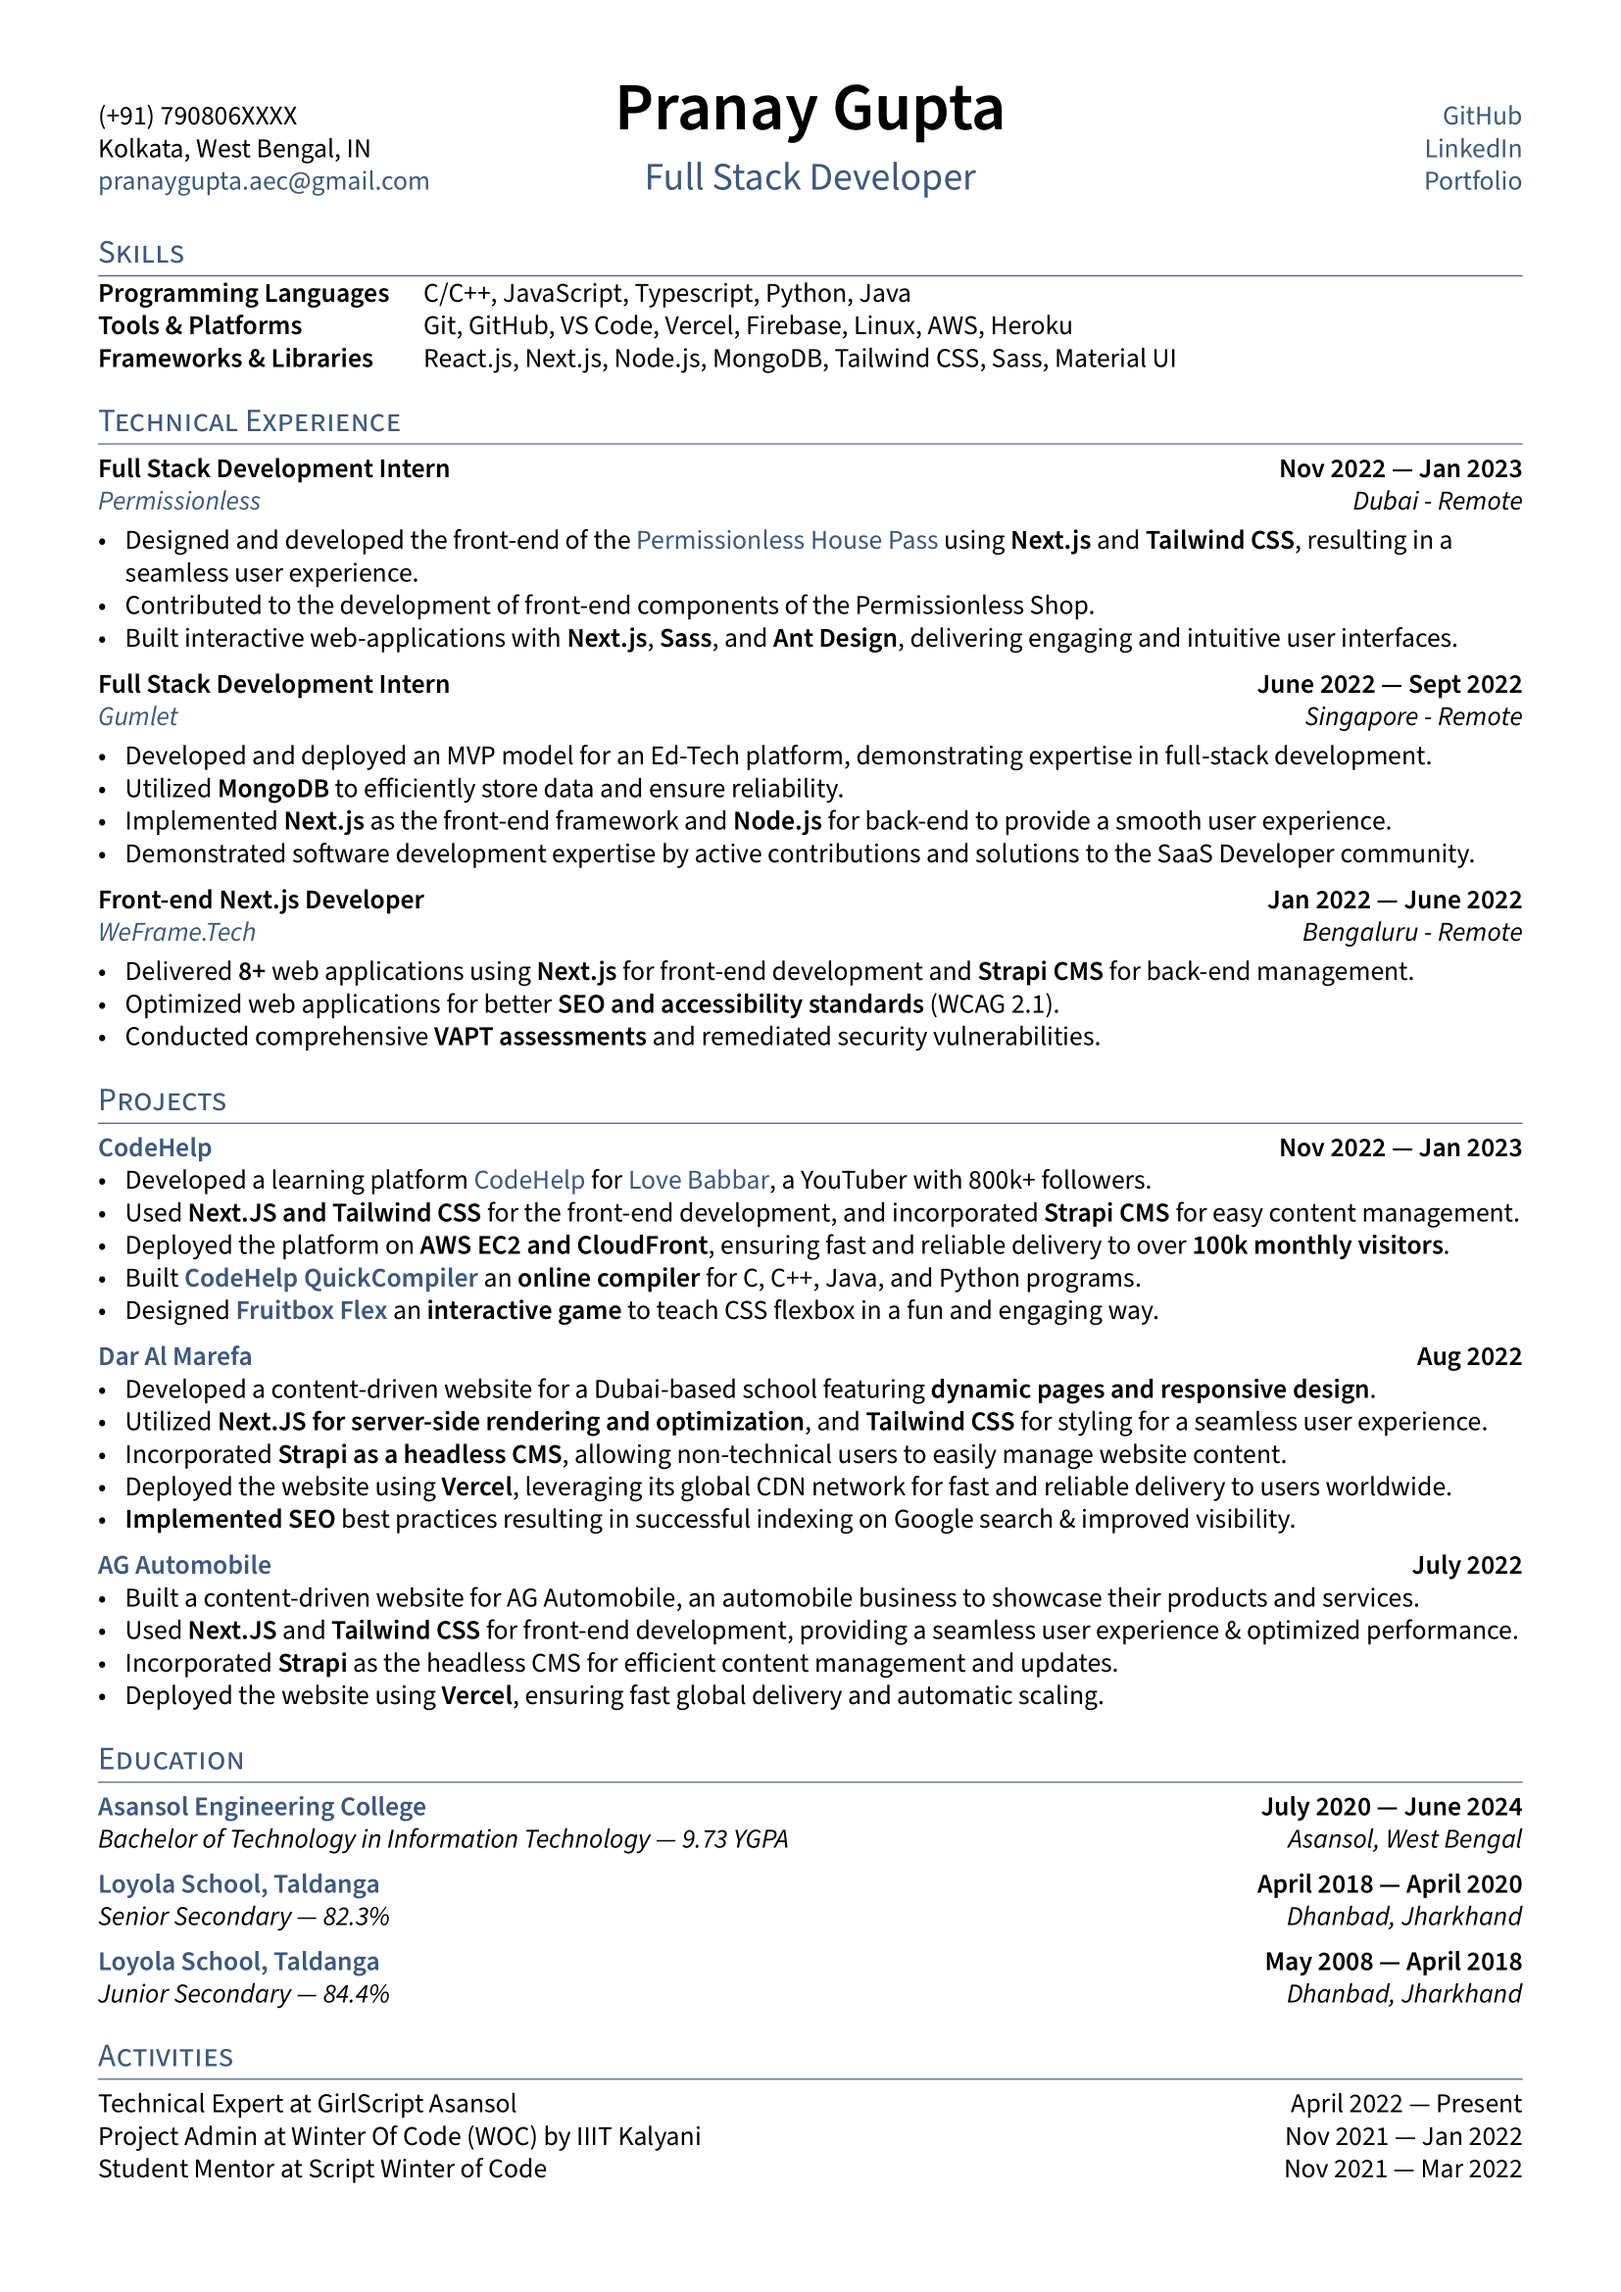
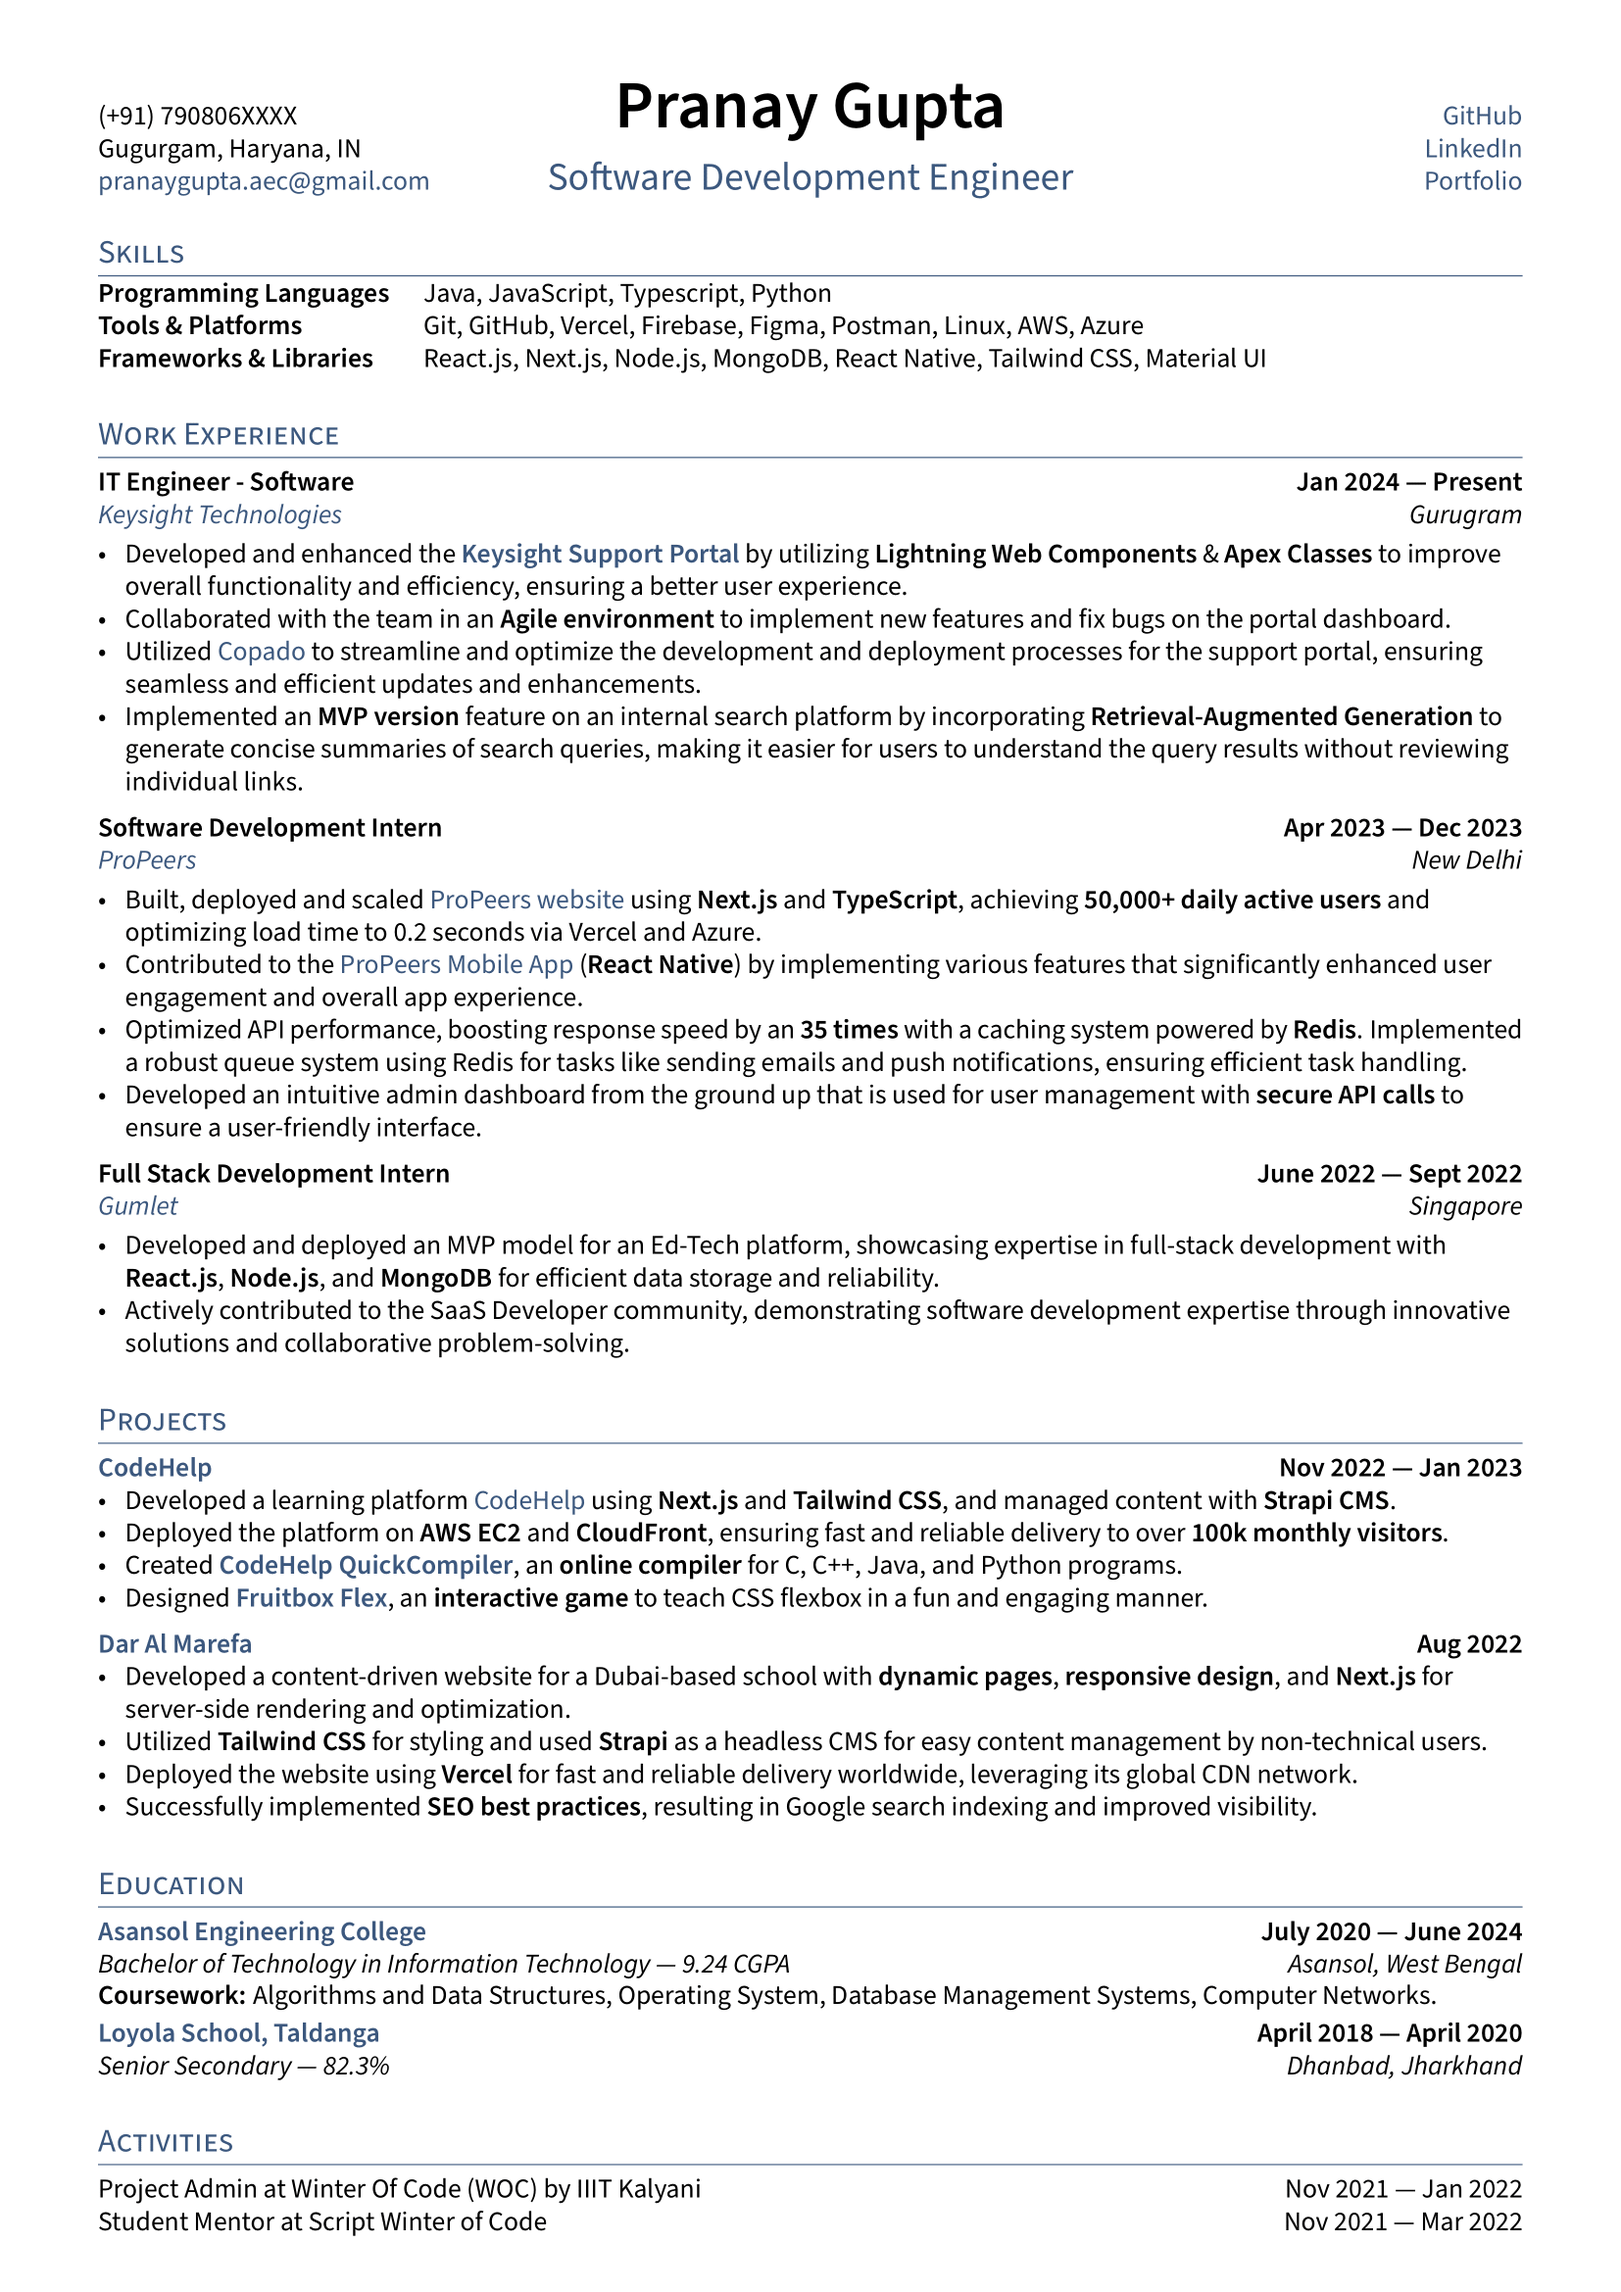
update resume content

diff --git a/sections/experience.tex b/sections/experience.tex
@@ -1,23 +1,25 @@
 % ====================
 % EXPERIENCE A
 % ====================
-\subsection{{Software Development Intern\hfill Apr 2023 --- Present}}
-\subtext{\href{https://propeers.in}{ProPeers} \hfill New Delhi}
+\subsection{{IT Engineer - Software\hfill Jan 2024 --- Present}}
+\subtext{\href{https://www.keysight.com}{Keysight Technologies} \hfill Gurugram}
 \begin{zitemize}
-\item Developed admin-specific features and constructed an admin dashboard from scratch using \textbf{React} and \textbf{Tailwind CSS}, implementing an advanced architecture with \textbf{MVC pattern} for efficient data flow and state management.
-\item Implemented a robust \textbf{Restful Web Services API} using \textbf{Node.js}, \textbf{Express}, and \textbf{MongoDB} to facilitate seamless interaction between the mobile app and web app, incorporating modular design and run-time optimization techniques.
-\item Designed and implemented an \textbf{end-to-end} solution for efficient storage and retrieval of college data, leveraging multiple alias-matching algorithms to handle \textbf{hundreds of thousands of records}.
+\item Developed and enhanced the \textbf{\href{https://support.keysight.com/s}{Keysight Support Portal}} by utilizing \textbf{Lightning Web Components} \& \textbf{Apex Classes} to improve overall functionality and efficiency, ensuring a better user experience.
+\item Collaborated with the team in an \textbf{Agile environment} to implement new features and fix bugs on the portal dashboard.
+\item Utilized \href{https://www.copado.com}{Copado} to streamline and optimize the development and deployment processes for the support portal, ensuring seamless and efficient updates and enhancements.
+\item Implemented an \textbf{MVP version} feature on an internal search platform by incorporating \textbf{Retrieval-Augmented Generation} to generate concise summaries of search queries, making it easier for users to understand the query results without reviewing individual links.
 \end{zitemize}
 
 % ====================
 % EXPERIENCE B
 % ====================
-\subsection{{Full Stack Development Intern\hfill Nov 2022 --- Jan 2023}}
-\subtext{\href{https://permissionless.net}{Permissionless} \hfill Dubai}
+\subsection{{Software Development Intern\hfill Apr 2023 --- Dec 2023}}
+\subtext{\href{https://www.propeers.in}{ProPeers} \hfill New Delhi}
 \begin{zitemize}
-\item Worked on the design and development of the cutting-edge front-end for \textbf{\href{https://dsync.ai}{Dsync.ai}}, utilizing \textbf{Next.js} and \textbf{Tailwind CSS}, elevating the user experience to unparalleled levels of seamlessness.
-\item Collaborated on the enhancement of front-end components for the dynamic Permissionless Shop, employing \textbf{agile methodologies} and leveraging advanced technologies to streamline the shopping experience.
-\item Crafted captivating and intuitive user interfaces through the creation of interactive web applications using \textbf{Next.js}, \textbf{Sass}, and \textbf{Ant Design}, ensuring optimal engagement and user satisfaction.
+\item Built, deployed and scaled \href{https://www.propeers.in}{ProPeers website} using \textbf{Next.js} and \textbf{TypeScript}, achieving \textbf{50,000+ daily active users} and optimizing load time to 0.2 seconds via Vercel and Azure.
+\item Contributed to the {\href{https://play.google.com/store/apps/details?id=com.wireless.propeers}{ProPeers Mobile App}} (\textbf{React Native}) by implementing various features that significantly enhanced user engagement and overall app experience.
+\item Optimized API performance, boosting response speed by an \textbf{35 times} with a caching system powered by \textbf{Redis}. Implemented a robust queue system using Redis for tasks like sending emails and push notifications, ensuring efficient task handling.
+\item Developed an intuitive admin dashboard from the ground up that is used for user management with \textbf{secure API calls} to ensure a user-friendly interface.
 \end{zitemize}
 
 %====================
@@ -26,7 +28,7 @@
 \subsection{{Full Stack Development Intern\hfill June 2022 --- Sept 2022}}
 \subtext{\href{https://www.gumlet.com}{Gumlet} \hfill Singapore}
 \begin{zitemize}
-\item Developed and deployed an MVP model for an Ed-Tech platform, showcasing expertise in full-stack development with \textbf{Next.js}, \textbf{Node.js}, and \textbf{MongoDB} for efficient data storage and reliability.
+\item Developed and deployed an MVP model for an Ed-Tech platform, showcasing expertise in full-stack development with \textbf{React.js}, \textbf{Node.js}, and \textbf{MongoDB} for efficient data storage and reliability.
 \item Actively contributed to the SaaS Developer community, demonstrating software development expertise through innovative solutions and collaborative problem-solving.
 \end{zitemize}
 

diff --git a/sections/education.tex b/sections/education.tex
@@ -7,7 +7,7 @@
 
 
 \subsection{{\href{https://www.aecwb.edu.in}{Asansol Engineering College} \hfill July 2020 --- June 2024}}
-\subtext{Bachelor of Technology in Information Technology --- 9.73 YGPA \hfill Asansol, West Bengal}
+\subtext{Bachelor of Technology in Information Technology --- 9.24 CGPA \hfill Asansol, West Bengal}
 
 \vspace{0.25em}
 \subtext{}\textbf{Coursework:} Algorithms and Data Structures, Operating System, Database Management Systems, Computer Networks.
@@ -21,8 +21,8 @@
 
 \end{null}
 
-\subsection{{\href{https://www.loyolataldanga.com/}{Loyola School, Taldanga} \hfill May 2008 --- April 2018}}
-\subtext{Junior Secondary --- 84.4\% \hfill Dhanbad, Jharkhand}
-\begin{null}
+% \subsection{{\href{https://www.loyolataldanga.com/}{Loyola School, Taldanga} \hfill May 2008 --- April 2018}}
+% \subtext{Junior Secondary --- 84.4\% \hfill Dhanbad, Jharkhand}
+% \begin{null}
 
-\end{null}
+% \end{null}

diff --git a/sections/activities.tex b/sections/activities.tex
@@ -1,5 +1,3 @@
-\href{https://media-exp1.licdn.com/dms/image/C4D2DAQFe_g8MmZZCKA/profile-treasury-image-shrink_1280_1280/0/1650306774998?e=2147483647&v=beta&t=hX0gnDjzG83VSMkTiWUa4FVBo8SGNfmNlMMq7jtOg40}{\textcolor{black}{Technical Expert}} at GirlScript Asansol \hfill April 2022 --- Present
-
 Project Admin at Winter Of Code (WOC) by IIIT Kalyani \hfill Nov 2021 --- Jan 2022
 
 \href{https://media-exp2.licdn.com/dms/image/C4D2DAQEA_6LRDAI8eg/profile-treasury-document-images_800/1/1648468599618?e=1657756800&v=beta&t=hL2_ffWTPAjbkLPQvlRSlOXnvwtfpUXJf3YrcgO-8Ao}{\textcolor{black}{Student Mentor}} at Script Winter of Code \hfill   Nov 2021 --- Mar 2022

diff --git a/sections/skills.tex b/sections/skills.tex
@@ -1,5 +1,5 @@
 \begin{tabular}{p{11em} p{1em} p{43em}}
-\skills{Programming Languages} &&   C/C++, JavaScript, Typescript, Python, Java \\
-\skills{Tools \& Platforms} &&  Git, GitHub, Vercel, Firebase, Linux, AWS, Heroku \\
-\skills{Frameworks \& Libraries} && React.js, Next.js, Node.js, MongoDB, Tailwind CSS, Sass, Material UI
+\skills{Programming Languages} &&  Java, JavaScript, Typescript, Python \\
+\skills{Tools \& Platforms} &&  Git, GitHub, Vercel, Firebase, Figma, Postman, Linux, AWS, Azure \\
+\skills{Frameworks \& Libraries} && React.js, Next.js, Node.js, MongoDB, React Native, Tailwind CSS, Material UI
 \end{tabular}

diff --git a/resume.tex b/resume.tex
@@ -21,7 +21,7 @@
 %====================
 \def\name{Pranay Gupta} % Name Here
 \def\phone{(+91) 790806XXXX}
-\def\city{Kolkata, West Bengal, IN}
+\def\city{Gugurgam, Haryana, IN}
 \def\email{pranaygupta.aec@gmail.com}
 \def\LinkedIn{thepranaygupta} % linkedin.com/in/______
 \def\github{thepranaygupta} % github username
